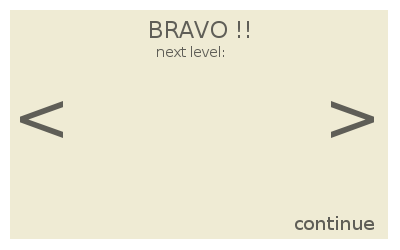
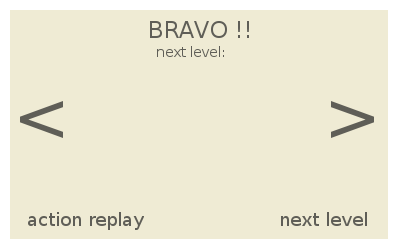
add action replay

Changed region(s): [[0.06, 0.84, 0.36, 0.924], [0.69, 0.84, 0.96, 0.924]]

diff --git a/Game.cpp b/Game.cpp
@@ -916,7 +916,11 @@ public:
   {
     printf("click %d,%d\n",x,y);
     if ( y > 180 ) {
-      m_game.gotoLevel( m_selectedLevel );
+      if ( x > 200 ) {
+	m_game.gotoLevel( m_selectedLevel );
+      } else {
+	m_game.gotoLevel( m_game.m_level,true );
+      }
     } else if ( x > 300 ) {
       m_selectedLevel++;
       printf("NextLevel++ = %d\n",m_selectedLevel);
@@ -1274,6 +1278,8 @@ public:
     printf("start playback: %d events\n",m_log->size());
   }
 
+  bool isRunning() { return m_playing; }
+
   void stop()  
   { 
     m_playing = false; 
@@ -1361,9 +1367,9 @@ public:
       m_recorder.stop();
       m_player.stop();
       if ( replay ) {
-	for ( int i=0; i<m_recorder.getLog().size(); i++ ) {
-	  printf("DEMO: %s\n",m_recorder.getLog().asString(i).c_str());
-	}
+	// for ( int i=0; i<m_recorder.getLog().size(); i++ ) {
+// 	  printf("DEMO: %s\n",m_recorder.getLog().asString(i).c_str());
+// 	}
 	m_player.start( &m_recorder.getLog() );
       } else {
 	m_recorder.start();
@@ -1692,19 +1698,31 @@ public:
 	}
 
 	SDL_Event ev;
-	while ( SDL_PollEvent(&ev)
-		|| m_player.fetchEvent(ev) ) { 
-	  bool handled = false;
-	  m_recorder.record( ev );
-	  for ( int i=m_overlays.size()-1; i>=0 && !handled; i-- ) {
-	    handled = m_overlays[i]->handleEvent(ev);
+	bool more = true;
+	while ( more ) {
+	  more = SDL_PollEvent(&ev);
+	  if ( m_player.isRunning() 
+	       && ( ev.type==SDL_MOUSEMOTION || 
+		    ev.type==SDL_MOUSEBUTTONDOWN || 
+		    ev.type==SDL_MOUSEBUTTONUP ) ) {
+	    more = false; //discard
 	  }
-	  if ( !handled ) {
-	    handled = false
-	      || handleModEvent(ev)
-	      || handleGameEvent(ev)
-	      || handleEditEvent(ev)
-	      || handlePlayEvent(ev);
+	  if (!more) {
+	    more = m_player.fetchEvent(ev);
+	  }
+	  if ( more ) {
+	    bool handled = false;
+	    m_recorder.record( ev );
+	    for ( int i=m_overlays.size()-1; i>=0 && !handled; i-- ) {
+	      handled = m_overlays[i]->handleEvent(ev);
+	    }
+	    if ( !handled ) {
+	      handled = false
+		|| handleModEvent(ev)
+		|| handleGameEvent(ev)
+		|| handleEditEvent(ev)
+		|| handlePlayEvent(ev);
+	    }
 	  }
 	}
 	iterateCounter += RENDER_RATE;
